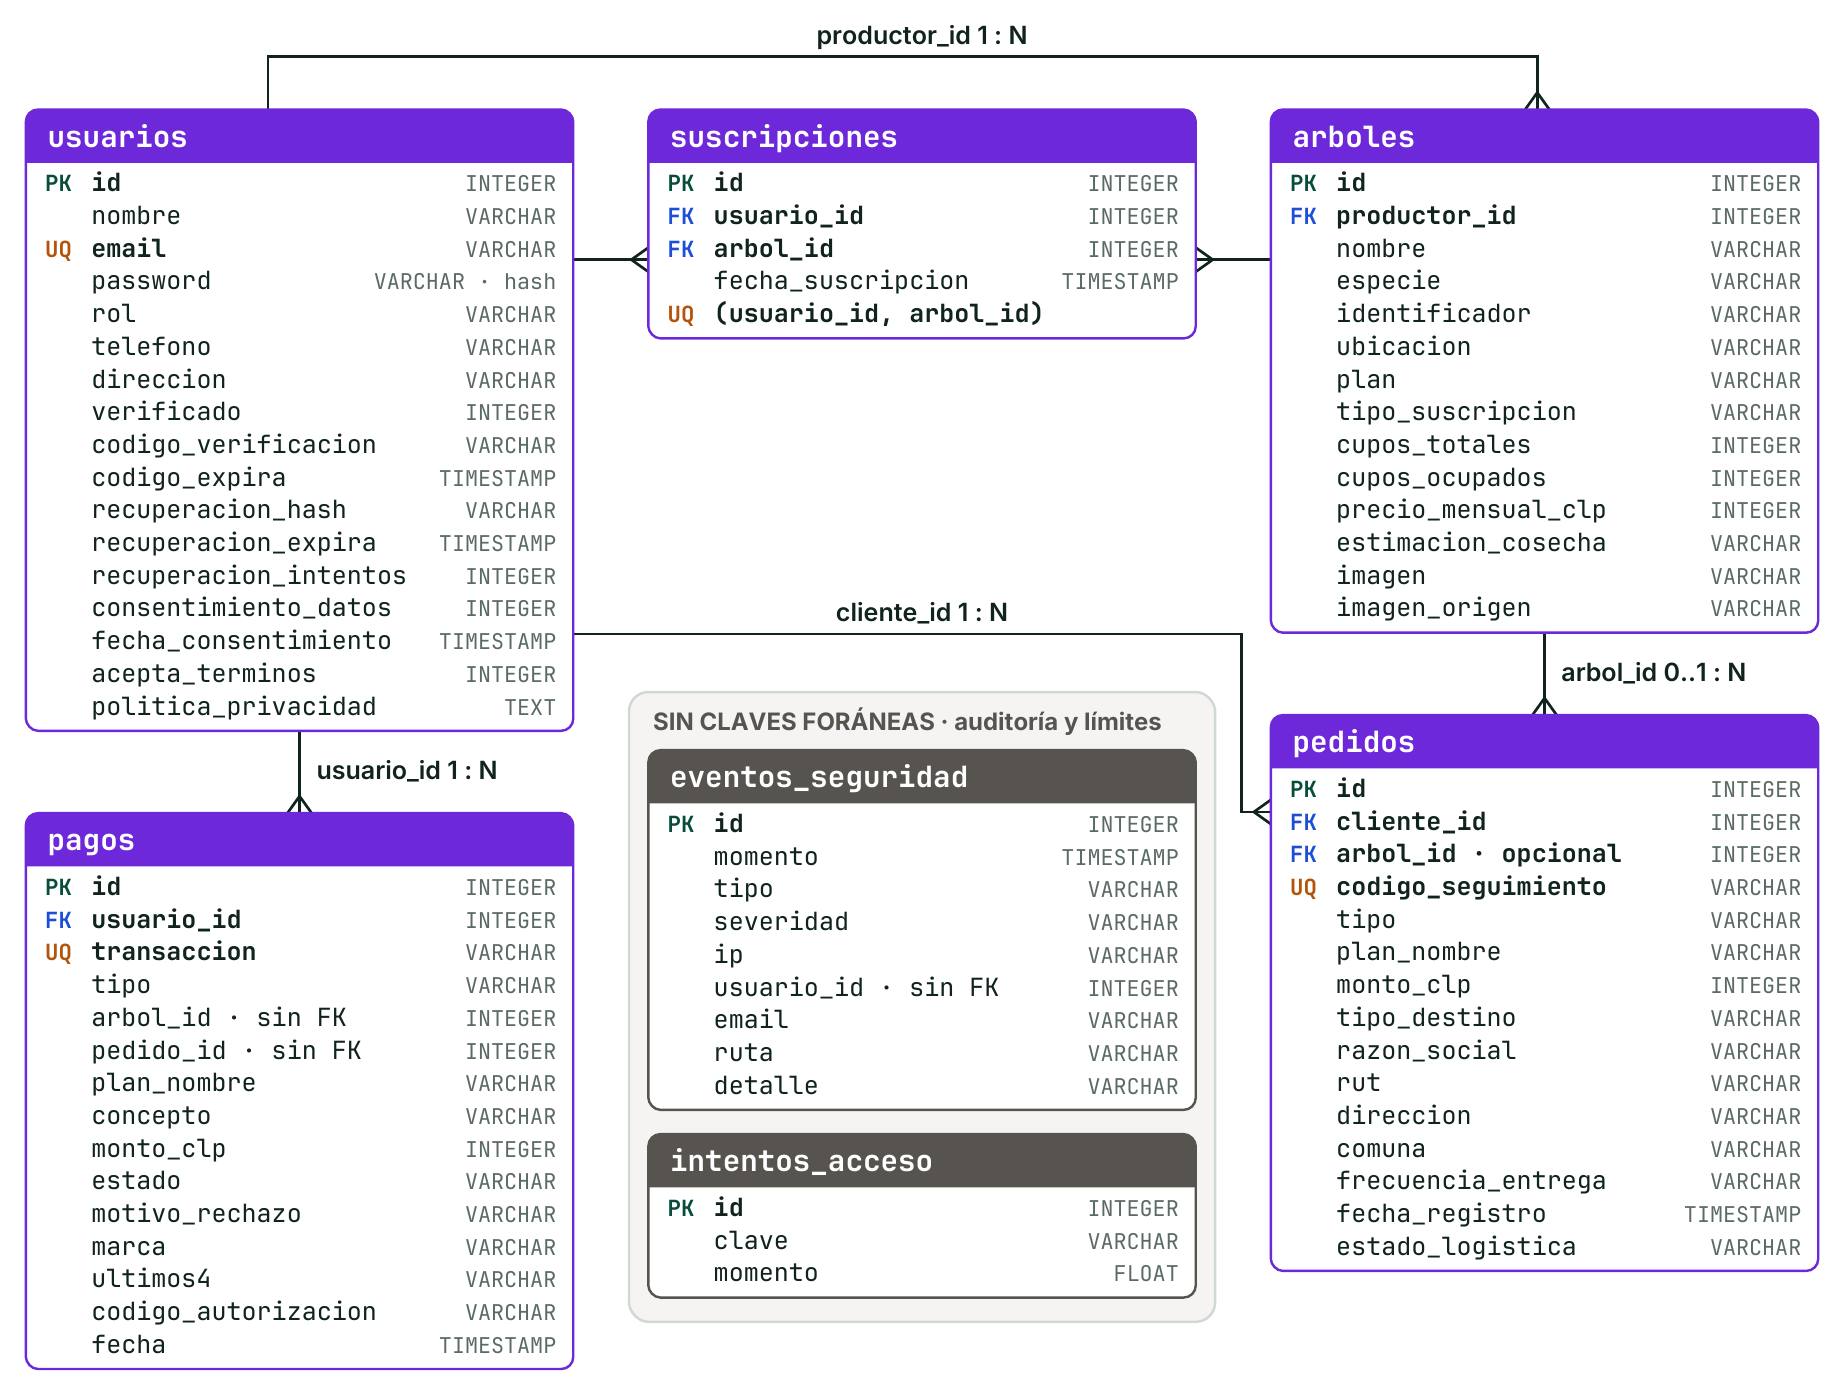
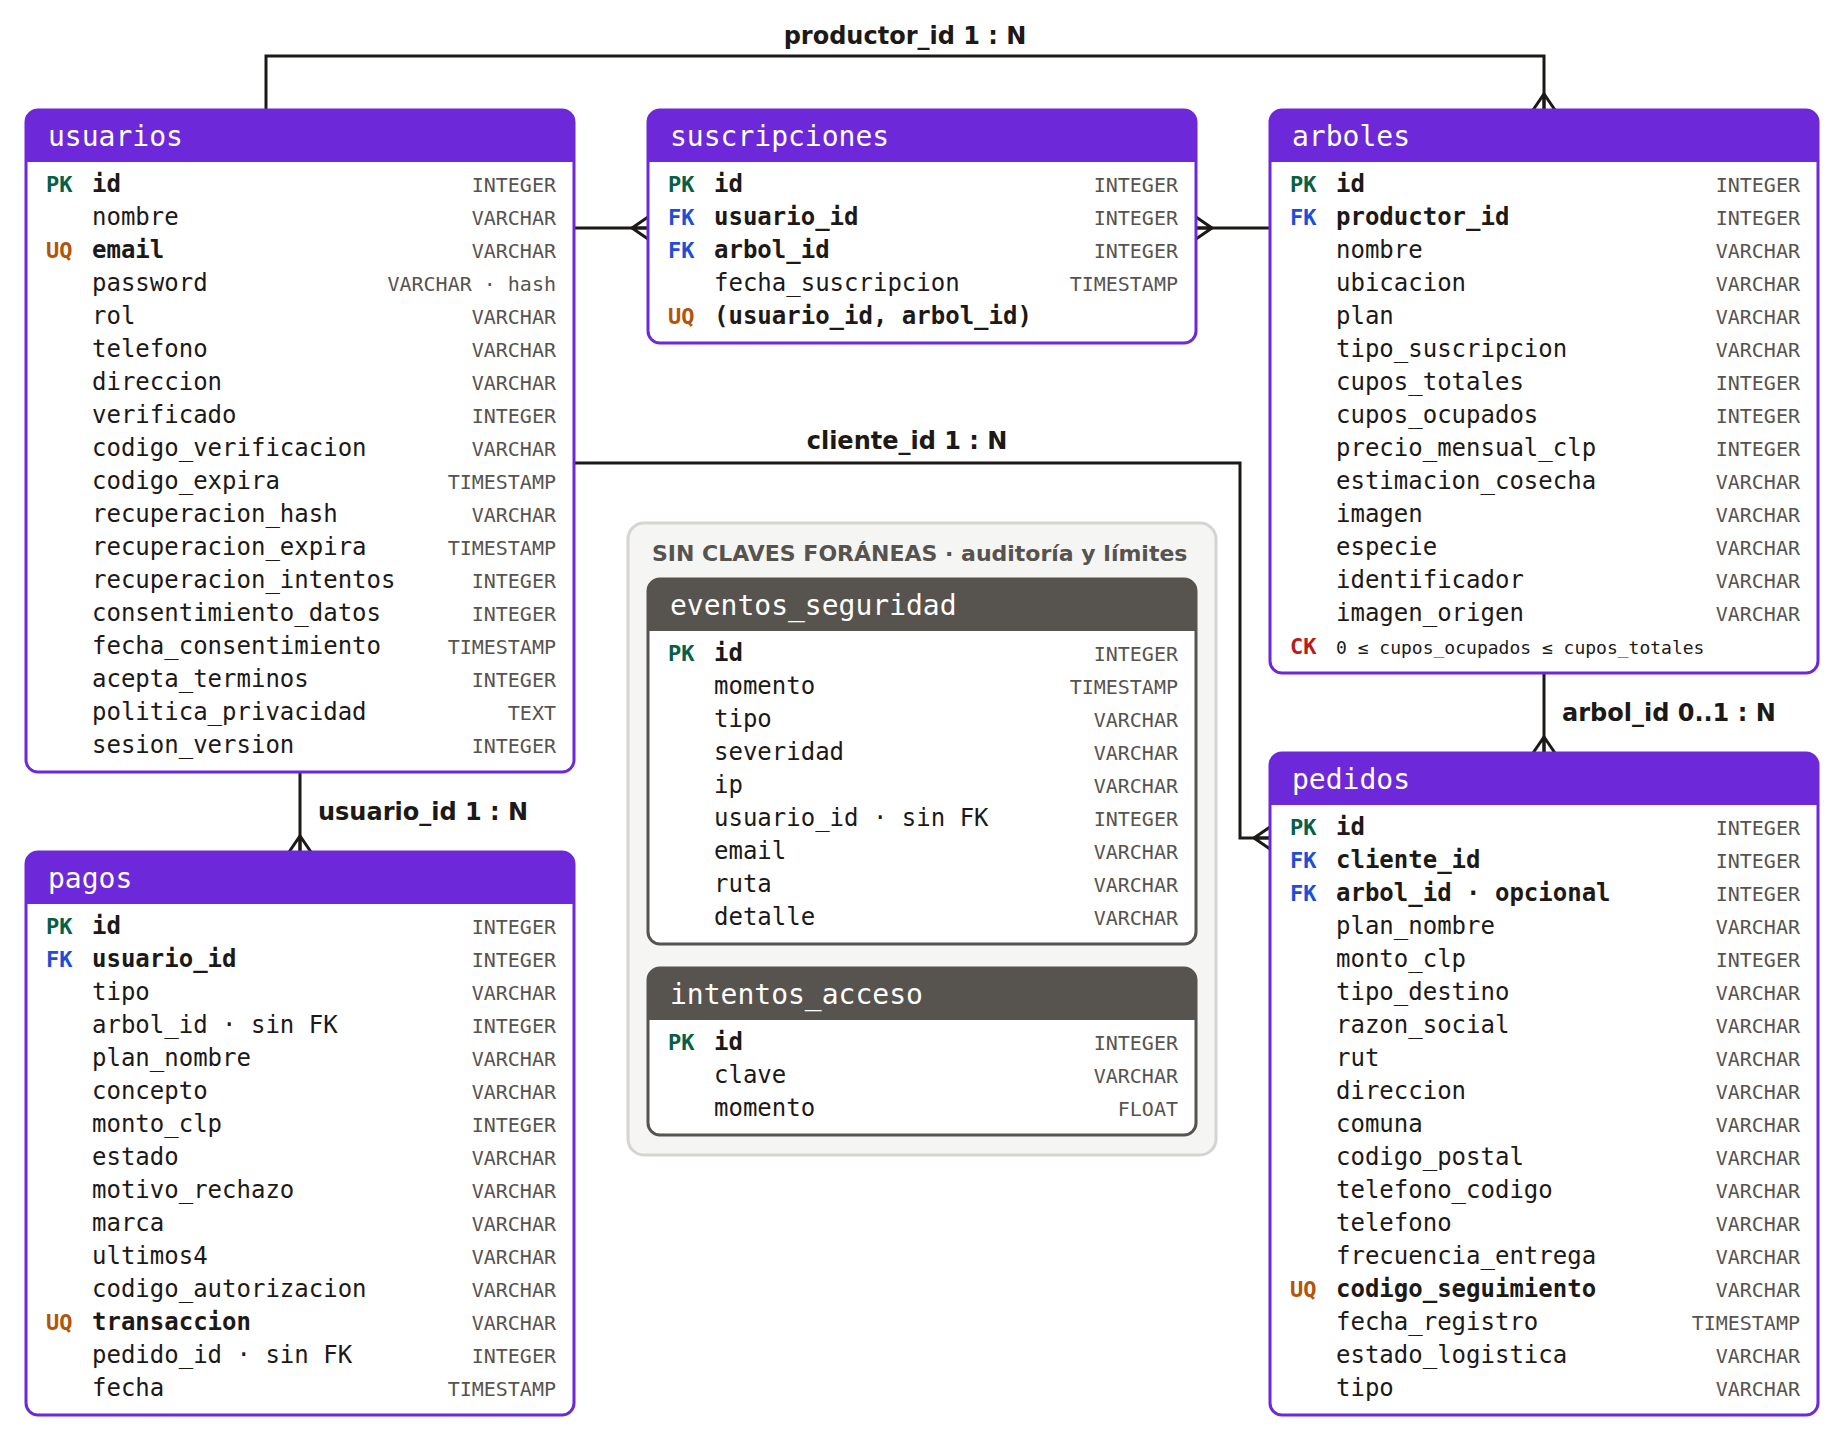
docs: diagrama de datos generado desde los modelos
El diagrama anterior no tenía sesion_version, los campos de despacho, la
columna pedidos.tipo ni la restricción de cupos. db/generar_diagrama.py lo
regenera desde backend/database.py.

Changed region(s): [[0.0, 0.0, 0.9892, 0.9864], [0.4328, 0.2774, 0.5564, 0.3391], [0.6491, 0.3082, 0.68, 0.3391]]

diff --git a/db/generar_diagrama.py b/db/generar_diagrama.py
@@ -1,0 +1,259 @@
+"""Genera db/modelo_datos.png desde los modelos de backend/database.py.
+
+Uso, desde la raíz del repositorio:  python db/generar_diagrama.py
+Necesita Google Chrome o Chromium para convertir el SVG en PNG. Si no lo
+encuentra, deja el SVG en db/modelo_datos.svg.
+
+Las columnas, tipos y claves salen de los modelos, así el diagrama no se
+desactualiza cuando cambia el esquema. La posición de cada tabla y el recorrido
+de cada relación están fijos aquí abajo.
+"""
+
+import os
+import re
+import shutil
+import struct
+import subprocess
+import sys
+import tempfile
+import zlib
+from html import escape
+from pathlib import Path
+
+RAIZ = Path(__file__).resolve().parent.parent
+
+# Medidas en píxeles
+ANCHO_TABLA = 548
+ALTO_TITULO = 52
+ALTO_FILA = 33
+RELLENO = 16
+COLUMNAS_X = (26, 648, 1270)
+ARRIBA = 110
+
+COLOR_TABLA = "#6d28d9"
+COLOR_AUDITORIA = "#57534e"
+COLOR_LINEA = "#1c1917"
+FUENTE = "'DejaVu Sans Mono', 'Liberation Mono', Menlo, Consolas, monospace"
+FUENTE_TEXTO = "'Inter', 'DejaVu Sans', 'Liberation Sans', Arial, sans-serif"
+
+# Aclaraciones que no se deducen de los modelos
+NOTAS = {
+    ("usuarios", "password"): "hash",
+    ("pagos", "arbol_id"): "sin FK",
+    ("pagos", "pedido_id"): "sin FK",
+    ("eventos_seguridad", "usuario_id"): "sin FK",
+    ("pedidos", "arbol_id"): "opcional",
+}
+
+
+def cargar_tablas():
+    # Importar los modelos no debe abrir ninguna base real
+    os.environ["AGROCOLAB_DB_URL"] = f"sqlite:///{tempfile.gettempdir()}/agrocolab-diagrama.db"
+    sys.path.insert(0, str(RAIZ / "backend"))
+    from sqlalchemy import CheckConstraint, UniqueConstraint
+    from sqlalchemy.dialects import postgresql
+
+    from database import Base
+
+    dialecto = postgresql.dialect()
+    tablas = {}
+    for tabla in Base.metadata.sorted_tables:
+        unicas = {
+            next(iter(i.columns)).name for i in tabla.indexes if i.unique and len(i.columns) == 1
+        } | {
+            next(iter(c.columns)).name for c in tabla.constraints
+            if isinstance(c, UniqueConstraint) and len(c.columns) == 1
+        }
+        filas = []
+        for col in tabla.columns:
+            tipo = col.type.compile(dialect=dialecto).replace(" WITHOUT TIME ZONE", "")
+            marca = "PK" if col.primary_key else "FK" if col.foreign_keys else "UQ" if col.name in unicas else ""
+            nota = NOTAS.get((tabla.name, col.name))
+            filas.append({"marca": marca, "nombre": col.name, "tipo": tipo, "nota": nota})
+        # Primero la clave primaria y las foráneas, como se leen en un diagrama
+        filas.sort(key=lambda f: {"PK": 0, "FK": 1}.get(f["marca"], 2))
+        for c in tabla.constraints:
+            if isinstance(c, UniqueConstraint) and len(c.columns) > 1:
+                filas.append({"marca": "UQ", "nombre": "(" + ", ".join(x.name for x in c.columns) + ")", "tipo": "", "nota": None})
+            if isinstance(c, CheckConstraint):
+                texto = str(c.sqltext)
+                # "x >= 0 AND x <= y" se lee mejor como "0 ≤ x ≤ y"
+                rango = re.fullmatch(r"(\w+) >= (\w+) AND \1 <= (\w+)", texto)
+                texto = f"{rango[2]} ≤ {rango[1]} ≤ {rango[3]}" if rango else texto.replace(">=", "≥").replace("<=", "≤")
+                filas.append({"marca": "CK", "nombre": texto, "tipo": "", "nota": None, "chica": True})
+        tablas[tabla.name] = filas
+    return tablas
+
+
+def alto(filas):
+    return ALTO_TITULO + ALTO_FILA * len(filas) + RELLENO
+
+
+def caja(nombre, filas, x, y, color):
+    h = alto(filas)
+    partes = [
+        f'<rect x="{x}" y="{y}" width="{ANCHO_TABLA}" height="{h}" rx="12" fill="#fff" stroke="{color}" stroke-width="3"/>',
+        f'<path d="M{x} {y + ALTO_TITULO} v-{ALTO_TITULO - 12} a12 12 0 0 1 12 -12 h{ANCHO_TABLA - 24} a12 12 0 0 1 12 12 v{ALTO_TITULO - 12} z" fill="{color}"/>',
+        f'<text x="{x + 22}" y="{y + 36}" font-family="{FUENTE}" font-size="28" fill="#fff">{escape(nombre)}</text>',
+    ]
+    colores_marca = {"PK": "#065f46", "FK": "#1d4ed8", "UQ": "#b45309", "CK": "#b91c1c"}
+    for i, f in enumerate(filas):
+        base = y + ALTO_TITULO + ALTO_FILA * i + 30
+        if f["marca"]:
+            partes.append(f'<text x="{x + 20}" y="{base}" font-family="{FUENTE}" font-size="22" font-weight="bold" fill="{colores_marca[f["marca"]]}">{f["marca"]}</text>')
+        peso = "bold" if f["marca"] in ("PK", "FK", "UQ") else "normal"
+        tam = 18 if f.get("chica") else 24
+        nombre = f["nombre"] + (f" · {f['nota']}" if f["nota"] and f["nota"] != "hash" else "")
+        partes.append(f'<text x="{x + 66}" y="{base}" font-family="{FUENTE}" font-size="{tam}" font-weight="{peso}" fill="#1c1917">{escape(nombre)}</text>')
+        tipo = f["tipo"] + (" · hash" if f["nota"] == "hash" else "")
+        if tipo:
+            partes.append(f'<text x="{x + ANCHO_TABLA - 18}" y="{base}" text-anchor="end" font-family="{FUENTE}" font-size="20" fill="#57534e">{escape(tipo)}</text>')
+    return "\n".join(partes), h
+
+
+def pata_de_gallo(x, y, direccion):
+    """Extremo "muchos" de una relación. (x, y) toca el borde de la tabla y
+    direccion es hacia dónde entra la línea: 'abajo', 'derecha' o 'izquierda'."""
+    d, s = 16, 11
+    if direccion == "abajo":
+        return f'<path d="M{x - s} {y} L{x} {y - d} L{x + s} {y} M{x} {y} L{x} {y - d}" fill="none" stroke="{COLOR_LINEA}" stroke-width="3"/>'
+    if direccion == "derecha":
+        return f'<path d="M{x} {y - s} L{x - d} {y} L{x} {y + s} M{x} {y} L{x - d} {y}" fill="none" stroke="{COLOR_LINEA}" stroke-width="3"/>'
+    return f'<path d="M{x} {y - s} L{x + d} {y} L{x} {y + s} M{x} {y} L{x + d} {y}" fill="none" stroke="{COLOR_LINEA}" stroke-width="3"/>'
+
+
+def linea(puntos):
+    d = "M" + " L".join(f"{x} {y}" for x, y in puntos)
+    return f'<path d="{d}" fill="none" stroke="{COLOR_LINEA}" stroke-width="3"/>'
+
+
+def etiqueta(x, y, texto, ancla="middle"):
+    return f'<text x="{x}" y="{y}" text-anchor="{ancla}" font-family="{FUENTE_TEXTO}" font-size="24" font-weight="600" fill="{COLOR_LINEA}">{escape(texto)}</text>'
+
+
+def svg(tablas):
+    c1, c2, c3 = COLUMNAS_X
+    w = ANCHO_TABLA
+    partes = []
+
+    # Fila superior
+    s_usuarios, h_usuarios = caja("usuarios", tablas["usuarios"], c1, ARRIBA, COLOR_TABLA)
+    s_susc, h_susc = caja("suscripciones", tablas["suscripciones"], c2, ARRIBA, COLOR_TABLA)
+    s_arboles, h_arboles = caja("arboles", tablas["arboles"], c3, ARRIBA, COLOR_TABLA)
+    fondo_usuarios = ARRIBA + h_usuarios
+    fondo_arboles = ARRIBA + h_arboles
+
+    # Fila inferior
+    y_pagos = fondo_usuarios + 80
+    s_pagos, h_pagos = caja("pagos", tablas["pagos"], c1, y_pagos, COLOR_TABLA)
+    y_pedidos = fondo_arboles + 80
+    s_pedidos, h_pedidos = caja("pedidos", tablas["pedidos"], c3, y_pedidos, COLOR_TABLA)
+
+    # Tablas de auditoría, sin claves foráneas, en un recuadro aparte
+    y_cliente = ARRIBA + h_susc + 120
+    y_grupo = y_cliente + 60
+    s_eventos, h_eventos = caja("eventos_seguridad", tablas["eventos_seguridad"], c2, y_grupo + 56, COLOR_AUDITORIA)
+    s_intentos, h_intentos = caja("intentos_acceso", tablas["intentos_acceso"], c2, y_grupo + 56 + h_eventos + 24, COLOR_AUDITORIA)
+    alto_grupo = 56 + h_eventos + 24 + h_intentos + 20
+    partes.append(f'<rect x="{c2 - 20}" y="{y_grupo}" width="{w + 40}" height="{alto_grupo}" rx="16" fill="#f5f5f4" stroke="#d6d3d1" stroke-width="3"/>')
+    partes.append(f'<text x="{c2 + 4}" y="{y_grupo + 38}" font-family="{FUENTE_TEXTO}" font-size="22" font-weight="600" fill="#57534e">SIN CLAVES FORÁNEAS · auditoría y límites</text>')
+
+    # Relaciones
+    x_prod_u = c1 + 240
+    x_prod_a = c3 + w // 2
+    partes.append(linea([(x_prod_u, ARRIBA), (x_prod_u, 56), (x_prod_a, 56), (x_prod_a, ARRIBA)]))
+    partes.append(pata_de_gallo(x_prod_a, ARRIBA, "abajo"))
+    partes.append(etiqueta((x_prod_u + x_prod_a) // 2, 44, "productor_id 1 : N"))
+
+    y_susc = ARRIBA + ALTO_TITULO + ALTO_FILA * 2
+    partes.append(linea([(c1 + w, y_susc), (c2, y_susc)]))
+    partes.append(pata_de_gallo(c2, y_susc, "derecha"))
+    partes.append(linea([(c3, y_susc), (c2 + w, y_susc)]))
+    partes.append(pata_de_gallo(c2 + w, y_susc, "izquierda"))
+
+    x_pagos = c1 + 274
+    partes.append(linea([(x_pagos, fondo_usuarios), (x_pagos, y_pagos)]))
+    partes.append(pata_de_gallo(x_pagos, y_pagos, "abajo"))
+    partes.append(etiqueta(x_pagos + 18, fondo_usuarios + 48, "usuario_id 1 : N", "start"))
+
+    x_quiebre = c3 - 30
+    y_entrada = y_pedidos + ALTO_TITULO + ALTO_FILA * 1
+    partes.append(linea([(c1 + w, y_cliente), (x_quiebre, y_cliente), (x_quiebre, y_entrada), (c3, y_entrada)]))
+    partes.append(pata_de_gallo(c3, y_entrada, "derecha"))
+    partes.append(etiqueta((c1 + w + x_quiebre) // 2, y_cliente - 14, "cliente_id 1 : N"))
+
+    x_arbol = c3 + 274
+    partes.append(linea([(x_arbol, fondo_arboles), (x_arbol, y_pedidos)]))
+    partes.append(pata_de_gallo(x_arbol, y_pedidos, "abajo"))
+    partes.append(etiqueta(x_arbol + 18, fondo_arboles + 48, "arbol_id 0..1 : N", "start"))
+
+    partes += [s_usuarios, s_susc, s_arboles, s_pagos, s_pedidos, s_eventos, s_intentos]
+
+    ancho = c3 + w + 26
+    alto_total = max(y_pagos + h_pagos, y_pedidos + h_pedidos, y_grupo + alto_grupo) + 30
+    cuerpo = "\n".join(partes)
+    return ancho, alto_total, (
+        f'<svg xmlns="http://www.w3.org/2000/svg" width="{ancho}" height="{alto_total}" viewBox="0 0 {ancho} {alto_total}">'
+        f'<rect width="100%" height="100%" fill="#fff"/>{cuerpo}</svg>'
+    )
+
+
+def recortar_png(ruta, alto_final):
+    """Deja solo las primeras filas del PNG. Chrome captura la ventana completa,
+    que es más alta que el área visible, así que se pide de más y se recorta.
+    Basta con conservar las primeras filas: los filtros de PNG solo miran hacia
+    arriba, así que no hace falta decodificar los píxeles."""
+    datos = Path(ruta).read_bytes()
+    pos, trozos = 8, []
+    while pos < len(datos):
+        largo = struct.unpack(">I", datos[pos:pos + 4])[0]
+        tipo = datos[pos + 4:pos + 8]
+        trozos.append((tipo, datos[pos + 8:pos + 8 + largo]))
+        pos += 12 + largo
+    ihdr = trozos[0][1]
+    ancho, alto_actual, profundidad, color, _, _, entrelazado = struct.unpack(">IIBBBBB", ihdr)
+    if profundidad != 8 or entrelazado or alto_actual <= alto_final:
+        return
+    canales = {0: 1, 2: 3, 4: 2, 6: 4}[color]
+    pixeles = zlib.decompress(b"".join(c for t, c in trozos if t == b"IDAT"))
+    pixeles = pixeles[:(ancho * canales + 1) * alto_final]
+
+    def trozo(tipo, contenido):
+        return struct.pack(">I", len(contenido)) + tipo + contenido + struct.pack(">I", zlib.crc32(tipo + contenido))
+
+    nuevo_ihdr = struct.pack(">IIBBBBB", ancho, alto_final, profundidad, color, 0, 0, 0)
+    Path(ruta).write_bytes(
+        datos[:8] + trozo(b"IHDR", nuevo_ihdr) + trozo(b"IDAT", zlib.compress(pixeles, 9)) + trozo(b"IEND", b"")
+    )
+
+
+def buscar_chrome():
+    for nombre in ("google-chrome", "chromium", "chromium-browser", "chrome"):
+        ruta = shutil.which(nombre)
+        if ruta:
+            return ruta
+    return None
+
+
+if __name__ == "__main__":
+    ancho, alto_total, contenido = svg(cargar_tablas())
+    chrome = buscar_chrome()
+    if not chrome:
+        destino = RAIZ / "db" / "modelo_datos.svg"
+        destino.write_text(contenido, encoding="utf-8")
+        print(f"No se encontró Chrome: escrito {destino}")
+        sys.exit(0)
+    with tempfile.TemporaryDirectory() as carpeta:
+        pagina = Path(carpeta) / "diagrama.html"
+        pagina.write_text(
+            f'<!doctype html><meta charset="utf-8"><style>html,body{{margin:0;background:#fff}}</style>{contenido}',
+            encoding="utf-8",
+        )
+        destino = RAIZ / "db" / "modelo_datos.png"
+        subprocess.run(
+            [chrome, "--headless=new", "--disable-gpu", "--hide-scrollbars", "--force-device-scale-factor=1",
+             f"--window-size={ancho},{alto_total + 200}", f"--screenshot={destino}", pagina.as_uri()],
+            check=True, capture_output=True,
+        )
+        recortar_png(destino, alto_total)
+    print(f"Escrito {destino} ({ancho}x{alto_total})")

diff --git a/db/README.md b/db/README.md
@@ -5,6 +5,7 @@
 | [`modelo_datos.png`](modelo_datos.png) | Diagrama con las 7 tablas, sus claves, relaciones y tipos |
 | [`esquema.sql`](esquema.sql) | Script que crea la base desde cero en PostgreSQL |
 | [`generar_esquema.py`](generar_esquema.py) | Regenera el script desde los modelos de `backend/database.py` |
+| [`generar_diagrama.py`](generar_diagrama.py) | Regenera el diagrama desde los mismos modelos (usa Chrome o Chromium) |
 
 ## Crear la base desde cero
 
@@ -28,4 +29,10 @@ Para usar PostgreSQL, define `DATABASE_URL` (ver [`.env.example`](../.env.exampl
 - `eventos_seguridad` e `intentos_acceso` no tienen claves foráneas: son registros de
   auditoría y de límites de intentos, y no dependen de que la cuenta siga existiendo.
 
-Una prueba automatizada comprueba que `esquema.sql` coincida con los modelos.
+Una prueba automatizada comprueba que `esquema.sql` coincida con los modelos. Si cambias un
+modelo, regenera los dos archivos desde la raíz del repositorio, con el entorno del backend activo:
+
+```bash
+python db/generar_esquema.py
+python db/generar_diagrama.py
+```
